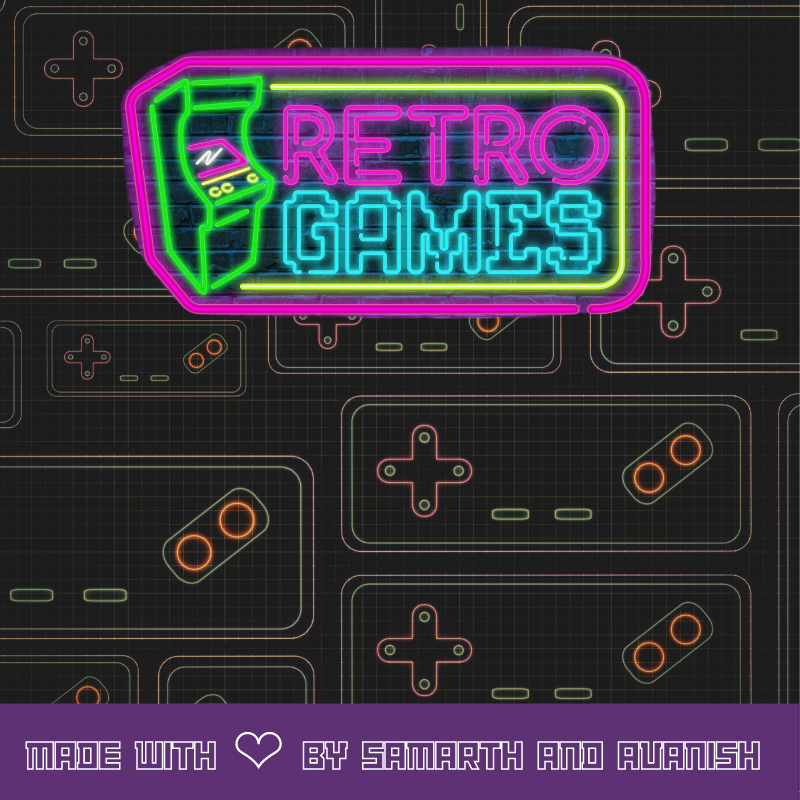
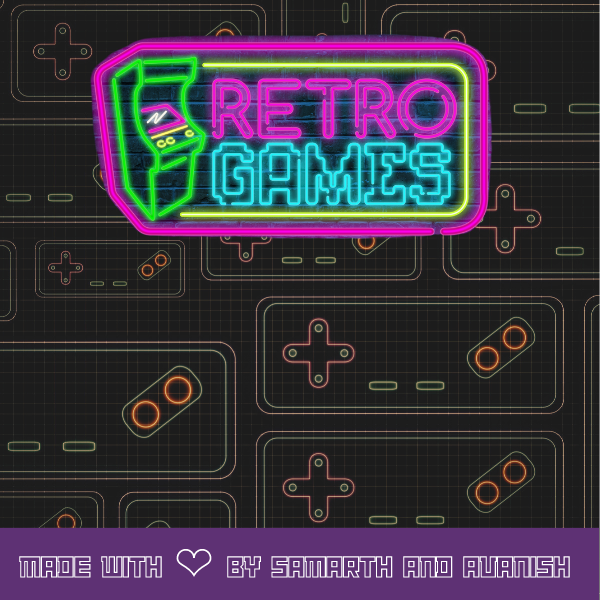
updated template.png

diff --git a/main_program.py b/main_program.py
@@ -12,8 +12,8 @@ bg = PhotoImage(file = "images/template.png")
 label1 = Label( window, image = bg)
 label1.place(x = 0, y = 0)
 
-width = 800 # Width 
-height = 800 # Height
+width = 600 # Width 
+height = 600 # Height
  
 screen_width = window.winfo_screenwidth()  # Width of the screen
 screen_height = window.winfo_screenheight() # Height of the screen
